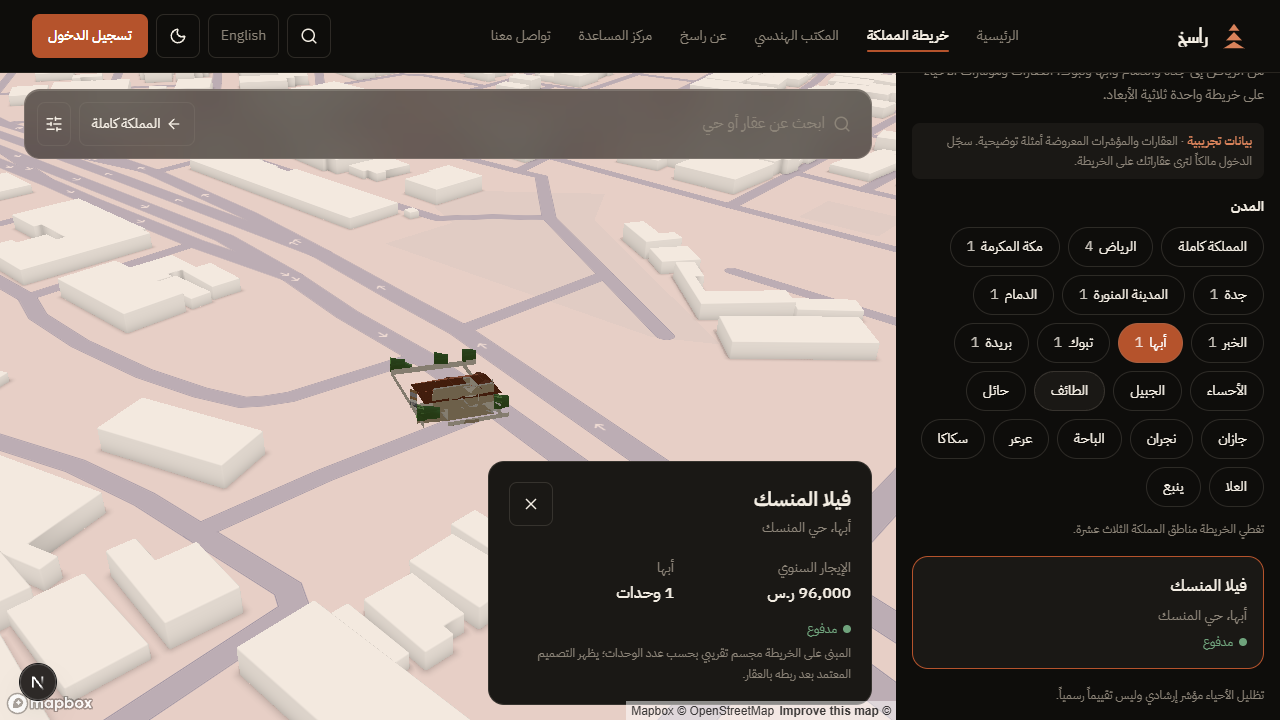
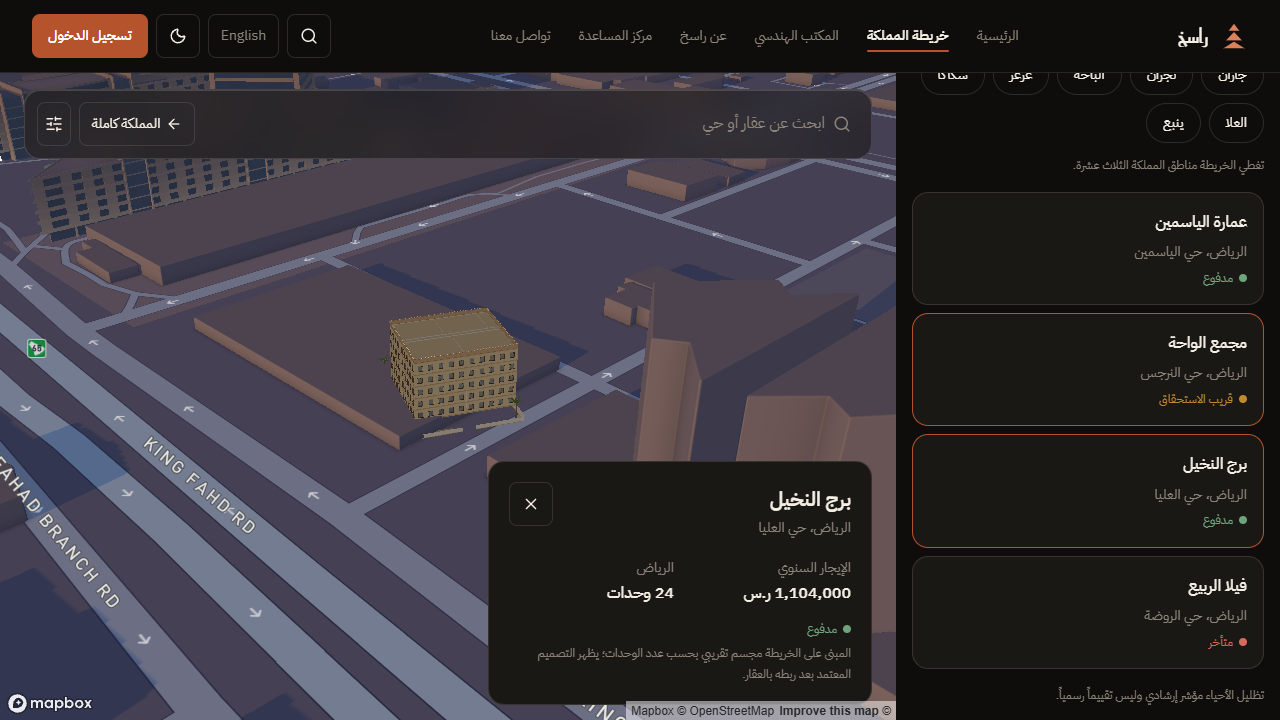
Map houses: fold the pin translation into the projection in double precision (fixes jittering striped houses)

diff --git a/apps/web/src/lib/map/houseLayer.ts b/apps/web/src/lib/map/houseLayer.ts
@@ -53,17 +53,23 @@ export function createHouseLayer(
     },
     render(_gl, matrix) {
       if (!renderer || !map || map.getZoom() < 14) return;
-      camera.projectionMatrix = new THREE.Matrix4().fromArray(matrix as unknown as number[]);
+      // The translation to the pin is folded into the projection on the CPU (double precision) and each house is drawn
+      // on its own with only scale and rotation as its model matrix: a Mercator translation near 0.5 next to a scale
+      // near 1e-7 loses its precision in the GPU's single-precision matrices, which shows as a jittering, striped house.
+      const base = new THREE.Matrix4().fromArray(matrix as unknown as number[]);
+      renderer.resetState();
       for (const { group } of groups.values()) {
         const pivot = group.userData as { mc: { x: number; y: number; z: number }; s: number };
-        group.matrix
-          .makeTranslation(pivot.mc.x, pivot.mc.y, pivot.mc.z)
-          .scale(new THREE.Vector3(pivot.s, -pivot.s, pivot.s))
-          .multiply(rotX);
+        for (const other of groups.values()) other.group.visible = other.group === group;
+        camera.projectionMatrix = base
+          .clone()
+          .multiply(new THREE.Matrix4().makeTranslation(pivot.mc.x, pivot.mc.y, pivot.mc.z));
+        camera.projectionMatrixInverse.copy(camera.projectionMatrix).invert();
+        group.matrix.makeScale(pivot.s, -pivot.s, pivot.s).multiply(rotX);
         group.matrixAutoUpdate = false;
+        renderer.render(scene, camera);
       }
-      renderer.resetState();
-      renderer.render(scene, camera);
+      for (const other of groups.values()) other.group.visible = true;
     },
     onRemove() {
       for (const { group } of groups.values()) scene.remove(group);
